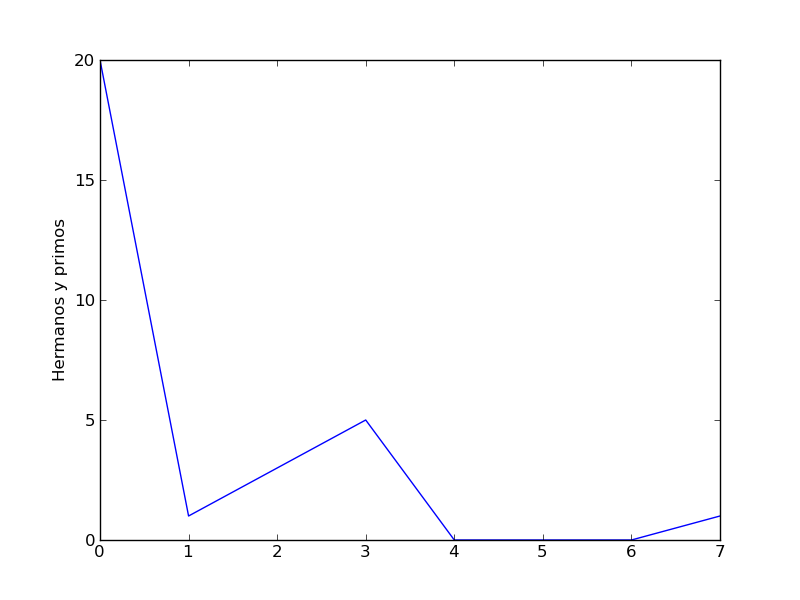
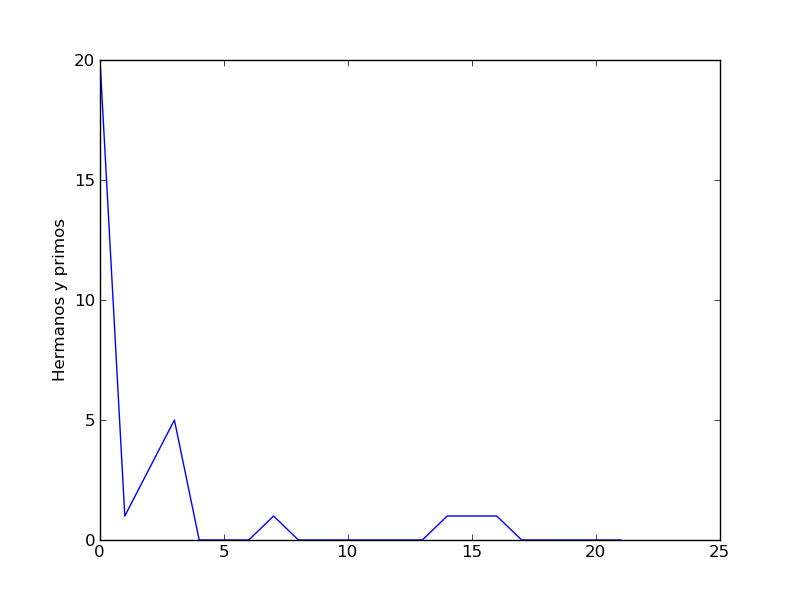
Add files via upload

diff --git a/temp.py b/temp.py
@@ -1,7 +1,7 @@
 #Python usa librerias como matplotlib con objetos predeterminados como pyplot que tienen propiedades que permiten enviar las instrucciones a la maquina de una forma resumida. Matplotlib es una libreria para crear graficas en 2 dimensiones. 
 import matplotlib.pyplot as plt
 #Construimos el objeto plt introduciendo valores que se grafican contra el numero de entrada. Por ejemplo si queremos graficar el crecimiento de un material por dia en centimetros. 
-plt.plot([20,1,3,5,0,0,0,1])
+plt.plot([20,1,3,5,0,0,0,1,0,0,0,0,0,0,1,1,1,0,0,0,0,0])
 #Con esta isntruccion colocamos un titulo al eje Y de la grafica. 
 plt.ylabel('Hermanos y primos')
 #Con esta isntruccion guardamos la imagen con el formato que queramos.
